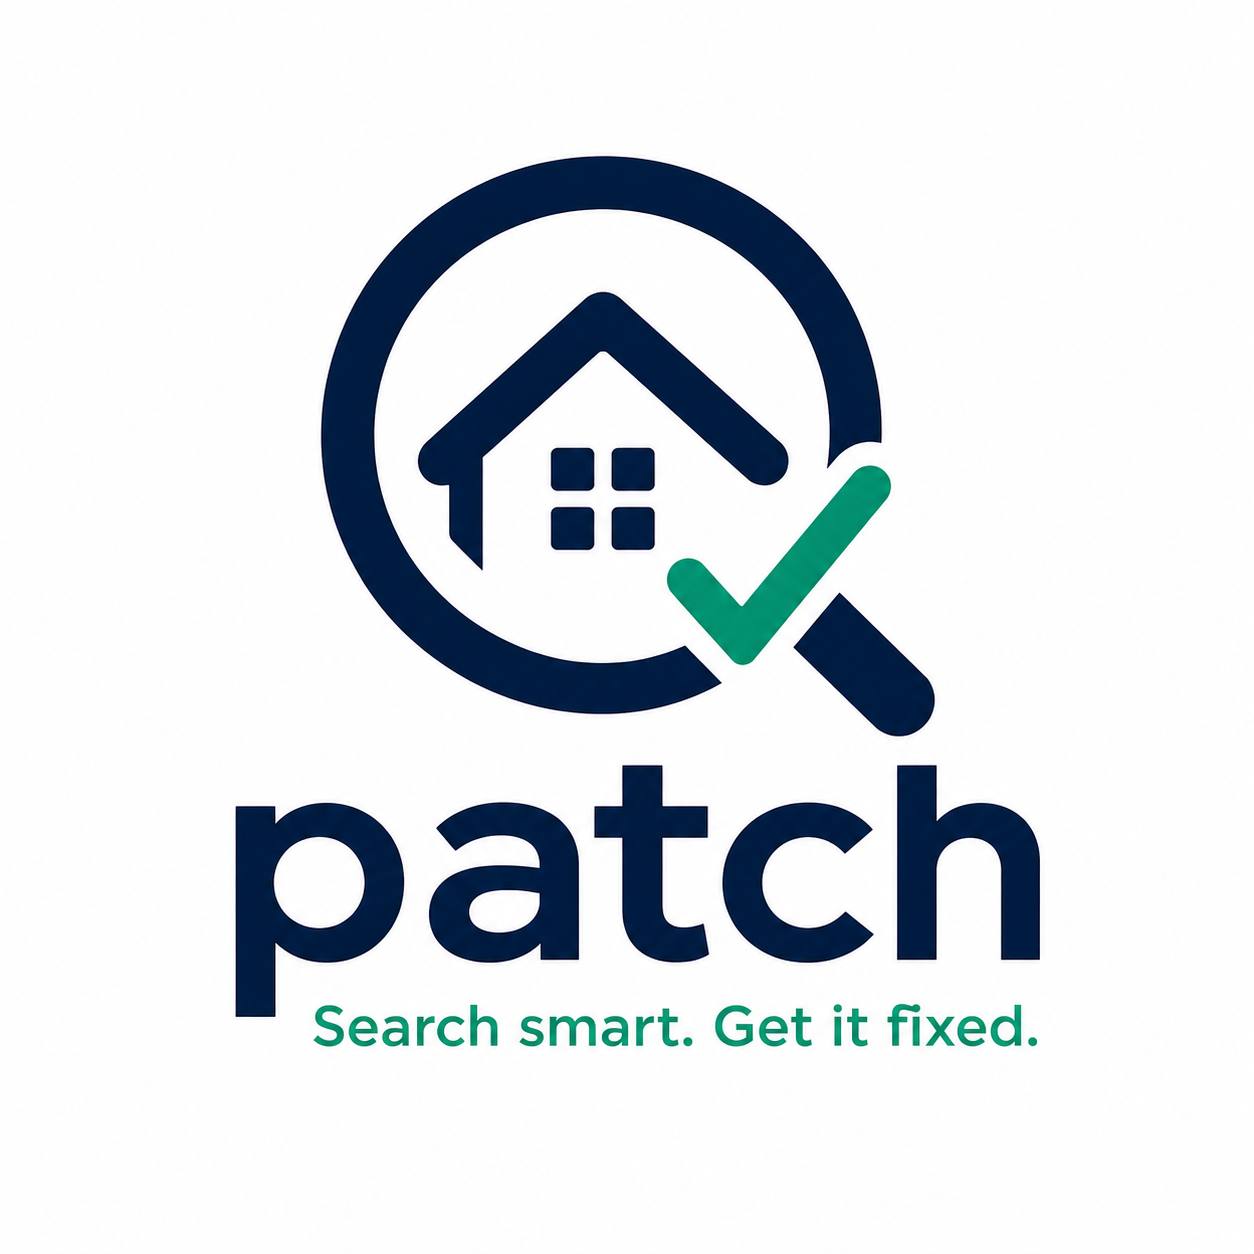
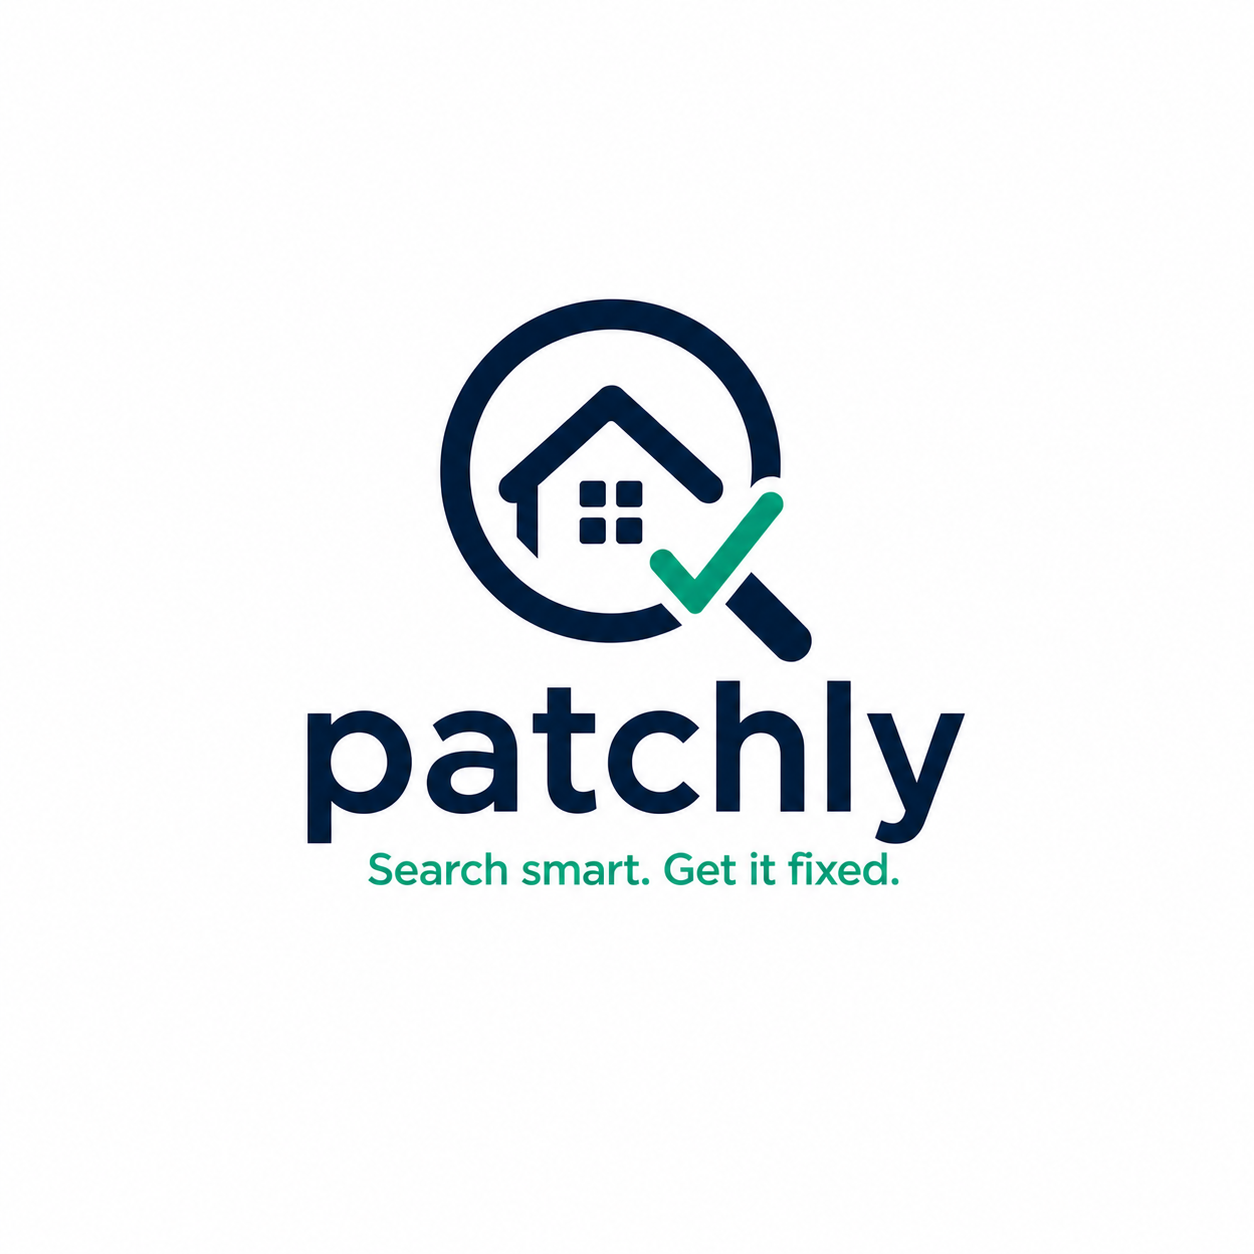
Rebrand from patch to Patchly across web, app, and metadata
App Store name "patch" was taken, so the public brand is now Patchly.
Updated:
- Wordmark in Logo component (lowercase patchly to match the existing
  brand aesthetic)
- All page titles, footer, partner page, and privacy policy copy
- iOS Info.plist CFBundleDisplayName and camera permission strings
- Android strings.xml app_name and activity title
- Capacitor appName in capacitor.config.ts
- Triage system prompt to say Patchly
- README and App Store metadata doc
- npm package name

Bundle ID stays com.patchbakersfield.app (permanent, can't change without
losing user installs once shipped).
Domain stays patchapp.org.

Changed region(s): [[0.1866, 0.1244, 0.8397, 0.8397]]

diff --git a/src/pages/api/triage.ts b/src/pages/api/triage.ts
@@ -9,7 +9,7 @@ const tradeSummaries = trades
   .map((t) => `* ${t.slug}: ${t.name}. ${t.tagline}. Common: ${t.commonProblems.join('; ')}.`)
   .join('\n');
 
-const SYSTEM_PROMPT = `You are a triage agent for Patch, a Bakersfield home services directory. A homeowner describes a problem (and may attach photos); you decide which trade should handle it.
+const SYSTEM_PROMPT = `You are a triage agent for Patchly, a Bakersfield home services directory. A homeowner describes a problem (and may attach photos); you decide which trade should handle it.
 
 Available trades:
 ${tradeSummaries}

diff --git a/capacitor.config.ts b/capacitor.config.ts
@@ -8,7 +8,7 @@ const DEV_URL = process.env.CAP_DEV_URL; // e.g. http://192.168.1.42:4321
 
 const config: CapacitorConfig = {
   appId: 'com.patchbakersfield.app',
-  appName: 'patch',
+  appName: 'Patchly',
   webDir: 'public',
   server: {
     url: DEV_URL || PROD_URL,

diff --git a/docs/app-store-metadata.md b/docs/app-store-metadata.md
@@ -1,4 +1,4 @@
-# App Store Connect metadata for patch
+# App Store Connect metadata for Patchly
 
 Copy-paste-ready text for each field. Adjust anything in [brackets] or rewrite if you want a different angle.
 
@@ -6,15 +6,7 @@ Copy-paste-ready text for each field. Adjust anything in [brackets] or rewrite i
 
 ## App name (30 char max)
 
-**`patch`** (5 chars) — try this first. Likely taken.
-
-If taken, fall backs in order:
-- **`patch — Local Pros`** (18 chars)
-- **`patch: Bakersfield Pros`** (23 chars)
-- **`patch Home Services`** (19 chars)
-- **`Patch — Find a Pro`** (18 chars)
-
-App Store Connect will reject the name if it's already in use; you'll see the error immediately when you create the app record.
+**`Patchly`** (7 chars)
 
 ---
 
@@ -42,11 +34,11 @@ Describe your home problem and get matched to vetted local Bakersfield contracto
 ## Description (4000 char max)
 
 ```
-Got a leaky faucet, broken AC, or a busted garage door? patch is the fastest way to find the right local Bakersfield contractor for any home problem.
+Got a leaky faucet, broken AC, or a busted garage door? Patchly is the fastest way to find the right local Bakersfield contractor for any home problem.
 
 Just describe what's wrong in your own words. Snap a photo if it helps. We figure out which trade you need and show you the top local pros, ranked by rating and reviews. One tap to call.
 
-Why patch
+Why Patchly
 - Search by problem, not by trade. Not sure if it's plumbing or roofing? Just describe what you see.
 - One matched recommendation, not five spam calls. Your phone won't ring off the hook.
 - Local only. Every contractor is a real Kern County business.
@@ -95,7 +87,7 @@ These target the search terms people actually type. Don't repeat your app name (
 Leave it as the default "Initial release" or write:
 
 ```
-Welcome to patch. Search any home problem and get matched with trusted Bakersfield contractors.
+Welcome to Patchly. Search any home problem and get matched with trusted Bakersfield contractors.
 ```
 
 ---
@@ -137,26 +129,26 @@ Other valid options if you don't like Lifestyle: Productivity, Reference. Avoid 
 
 ## Age rating
 
-Run through the App Store Connect questionnaire — answer **No** to everything. You'll get a **4+** rating. patch has no objectionable content.
+Run through the App Store Connect questionnaire — answer **No** to everything. You'll get a **4+** rating. Patchly has no objectionable content.
 
 ---
 
 ## App Privacy Details ("Nutrition Label")
 
-Apple asks a questionnaire about what data you collect. Honest answers for patch:
+Apple asks a questionnaire about what data you collect. Honest answers for Patchly:
 
 | Category | What to select |
 |----------|---------------|
 | Contact info — Name | Yes (collected via lead form, NOT linked to user, NOT for tracking) |
 | Contact info — Phone | Yes (collected via lead form, NOT linked to user, NOT for tracking) |
 | Contact info — Email | No (you don't ask for email) |
-| User content — Photos | Yes (collected for AI matching, NOT linked to user, NOT for tracking) |
+| User content — Photos | Yes (collected for matching, NOT linked to user, NOT for tracking) |
 | User content — Other | Yes (the problem text) (NOT linked to user, NOT for tracking) |
 | Identifiers — Device ID | No |
 | Usage data | No |
 | Diagnostics | No |
 
-Key thing: select **NOT linked to user identity** for everything. patch has no accounts, so nothing IS linked to user identity.
+Key thing: select **NOT linked to user identity** for everything. Patchly has no accounts, so nothing IS linked to user identity.
 
 ---
 

diff --git a/README.md b/README.md
@@ -1,4 +1,4 @@
-# patch — Bakersfield home services directory
+# patchly — Bakersfield home services directory
 
 Describe a home problem, get matched with vetted local contractors, tap to call. Astro + Tailwind + Capacitor + Anthropic.
 
@@ -24,7 +24,7 @@ src/
 │   ├── trades.ts        # 5 trades + their common problems
 │   └── partners.ts      # contractor data + overall rating + reviewCount
 ├── components/
-│   ├── Logo.astro       # patch wordmark + icon
+│   ├── Logo.astro       # patchly wordmark + icon
 │   └── Stars.astro      # star rating component
 ├── layouts/Layout.astro # shared header/footer
 ├── pages/
